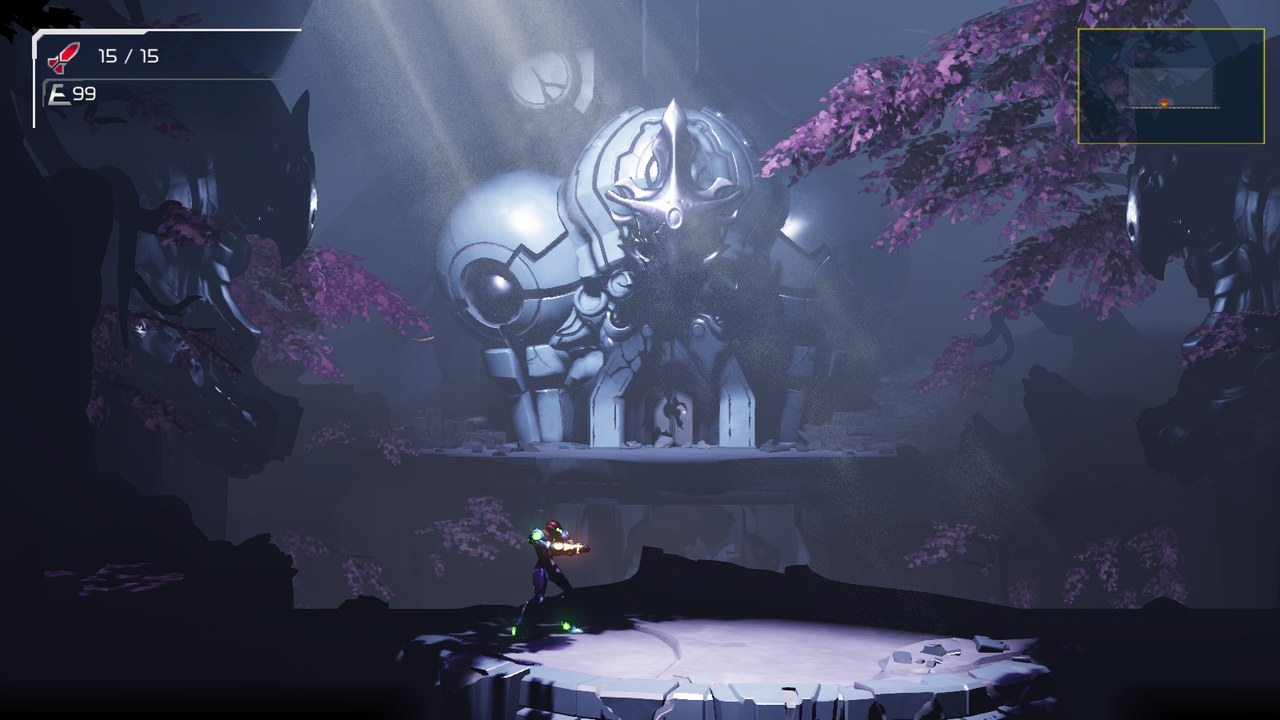
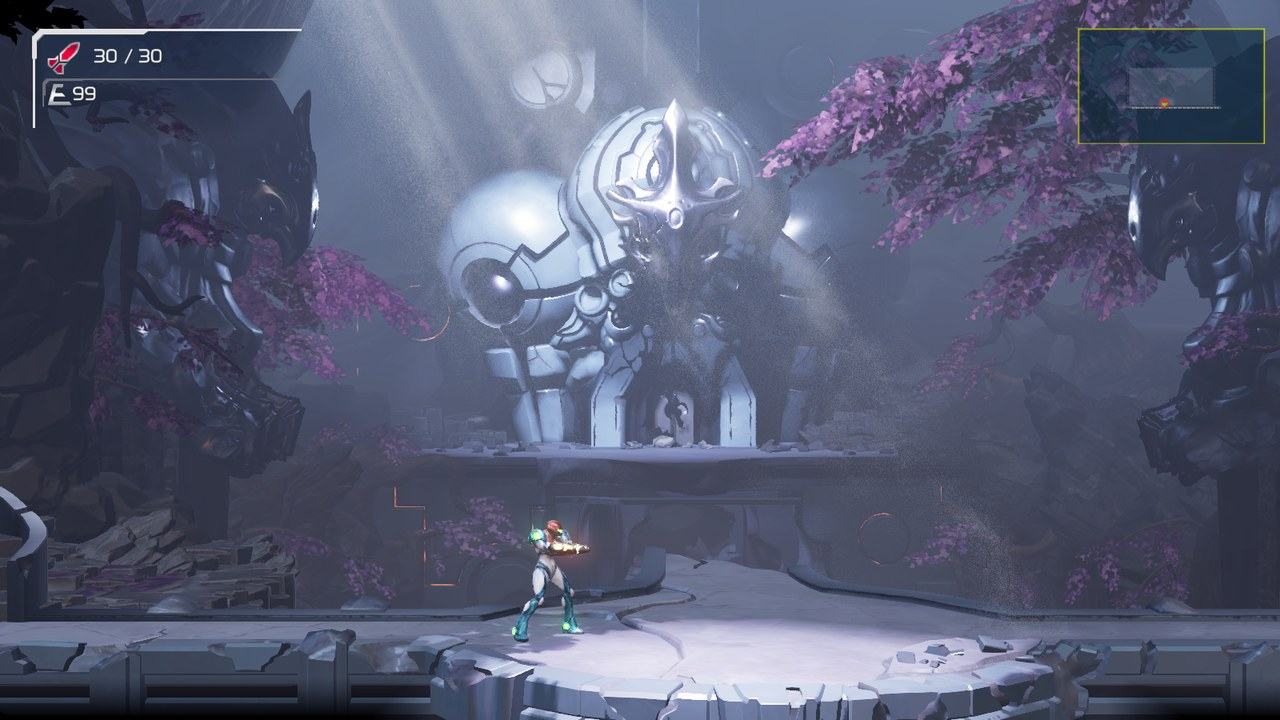
fix(nvn): upload textures that hold data at creation in a CPU-inaccessible pool (#80)
Metroid Dread drew every dark area black and Samus as a silhouette. Its
material shaders write the image-based ambient light into the light buffer
during the G-buffer pass, and the deferred lights add to it. The light cube
maps (128x128 and 64x64 BC6H, 256x256 BC1, texture flags 0) have no
packaged layout and sit in a CPU_NO_ACCESS pool whose memory the game fills
before nvnMemoryPoolInitialize: NVN takes those bytes as the pool's content,
but the host made their images empty at first use, so the ambient was 0.

- nvnTextureInitialize marks such a texture CPU-written (uploaded from
  memory at first use) when its storage holds data; render targets,
  images, video, display, linear and sparse textures and virtual pools are
  left out, and the zero check reads 64 KB plus a sample of each page
- Dread profile note: the issue, its cause and the measurement; the old
  "dark overgrowth is the game's look" note was this bug
- README image: the statue room with the fix

Artaria's statue room on the Y700: median brightness 56 -> 84 of 255,
pixels above 64 from 42% to 74%; the cube map dumps went from all zeros to
six distinct faces.

diff --git a/nxnative/dm/gfx/nvn/hle_nvn.c b/nxnative/dm/gfx/nvn/hle_nvn.c
@@ -474,6 +474,21 @@ NVN(nvnTextureInitialize, NVNboolean, NVNtexture *t, const NVNtextureBuilder *b)
         memcpy(o->mem, s->pkg_data, o->L.size);
         if (!(o->d.flags & (NVN_TEXTURE_FLAGS_LINEAR | NVN_TEXTURE_FLAGS_LINEAR_RENDER_TARGET))) mtl_tex_cpu_written(o);
     }
+    // A texture over memory the game filled before it made the pool: a pool the CPU cannot access (CPU_NO_ACCESS) takes the memory's bytes at nvnMemoryPoolInitialize as its
+    // content, and a texture on it with no packaged layout (no SetPackagedTextureLayout, no packaged data) reads them as they are. The host's image of such a texture was made
+    // empty at its first use, as for a render target. Metroid Dread keeps its image-based light cube maps (128x128 and 64x64 BC6H, 256x256 BC1; flags 0) that way: they read
+    // 0, the ambient light the material shaders write into the light buffer was 0, and everything that only direct lights did not reach came out black (Samus a silhouette;
+    // issue #80). Such a texture is CPU-written (uploaded from memory at its first use) when its storage holds anything; render targets, images, video, display, linear and
+    // sparse textures are left out, so are virtual pools (their pages exist only where mapped, and their content is the mapping's), and so is memory that looks all zero (a
+    // texture the GPU fills later). The look reads the first 64 KB and then 64 bytes of each 4 KB page: a texture that is all zero, re-initialized every frame, stays cheap
+    if (!o->has_layout && !s->pkg_data && o->mem && o->pool && (o->pool->flags & NVN_MEMORY_POOL_FLAGS_CPU_NO_ACCESS) && !(o->pool->flags & NVN_MEMORY_POOL_FLAGS_VIRTUAL) &&
+        o->d.target != NVN_TEXTURE_TARGET_BUFFER && !(o->d.flags & (NVN_TEXTURE_FLAGS_DISPLAY | NVN_TEXTURE_FLAGS_VIDEO_DECODE | NVN_TEXTURE_FLAGS_IMAGE | NVN_TEXTURE_FLAGS_COMPRESSIBLE |
+                                                                   NVN_TEXTURE_FLAGS_LINEAR | NVN_TEXTURE_FLAGS_SPARSE | NVN_TEXTURE_FLAGS_LINEAR_RENDER_TARGET))) {
+        size_t i = 0, n = o->L.size, head = n < 65536 ? n : 65536; int data = 0;
+        for (; i < head && !data; i++) data = o->mem[i] != 0;
+        for (size_t pg = head; pg < n && !data; pg += 4096) for (size_t k = pg; k < pg + 64 && k < n && !data; k++) data = o->mem[k] != 0;
+        if (data) { mtl_tex_cpu_written(o); static int nl; if (nl++ < 8) LOG("[nvn] texture %ux%ux%u format %#x target %d (no packaged layout) holds data at creation in a CPU-inaccessible pool: uploaded from memory", o->d.width, o->d.height, o->d.depth, o->d.format, o->d.target); }
+    }
     OLOG("Texture %p %ux%ux%u lv%u fmt=%#x tgt=%d flags=%#x size=%#llx", (void *)t, o->d.width, o->d.height, o->d.depth,
          o->d.levels, o->d.format, o->d.target, o->d.flags, o->L.size);
     ft_add(o);
